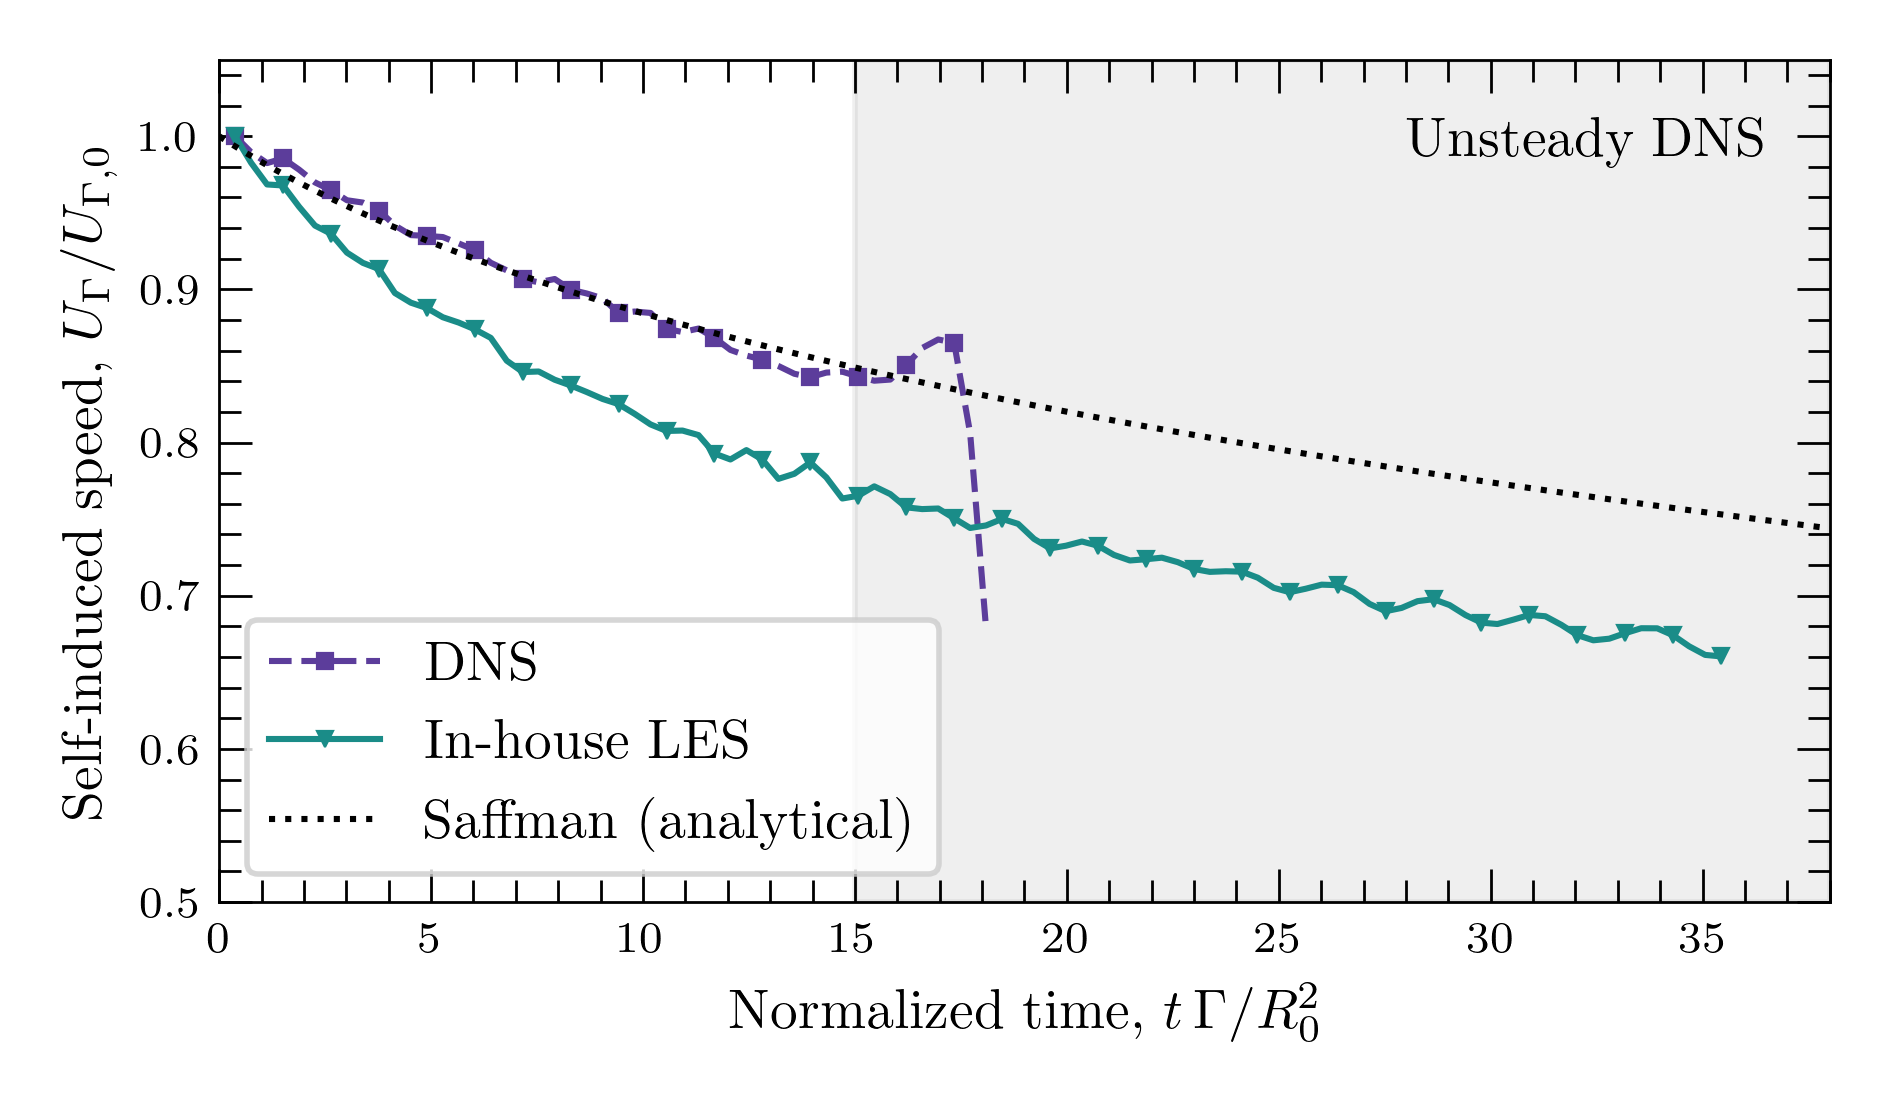
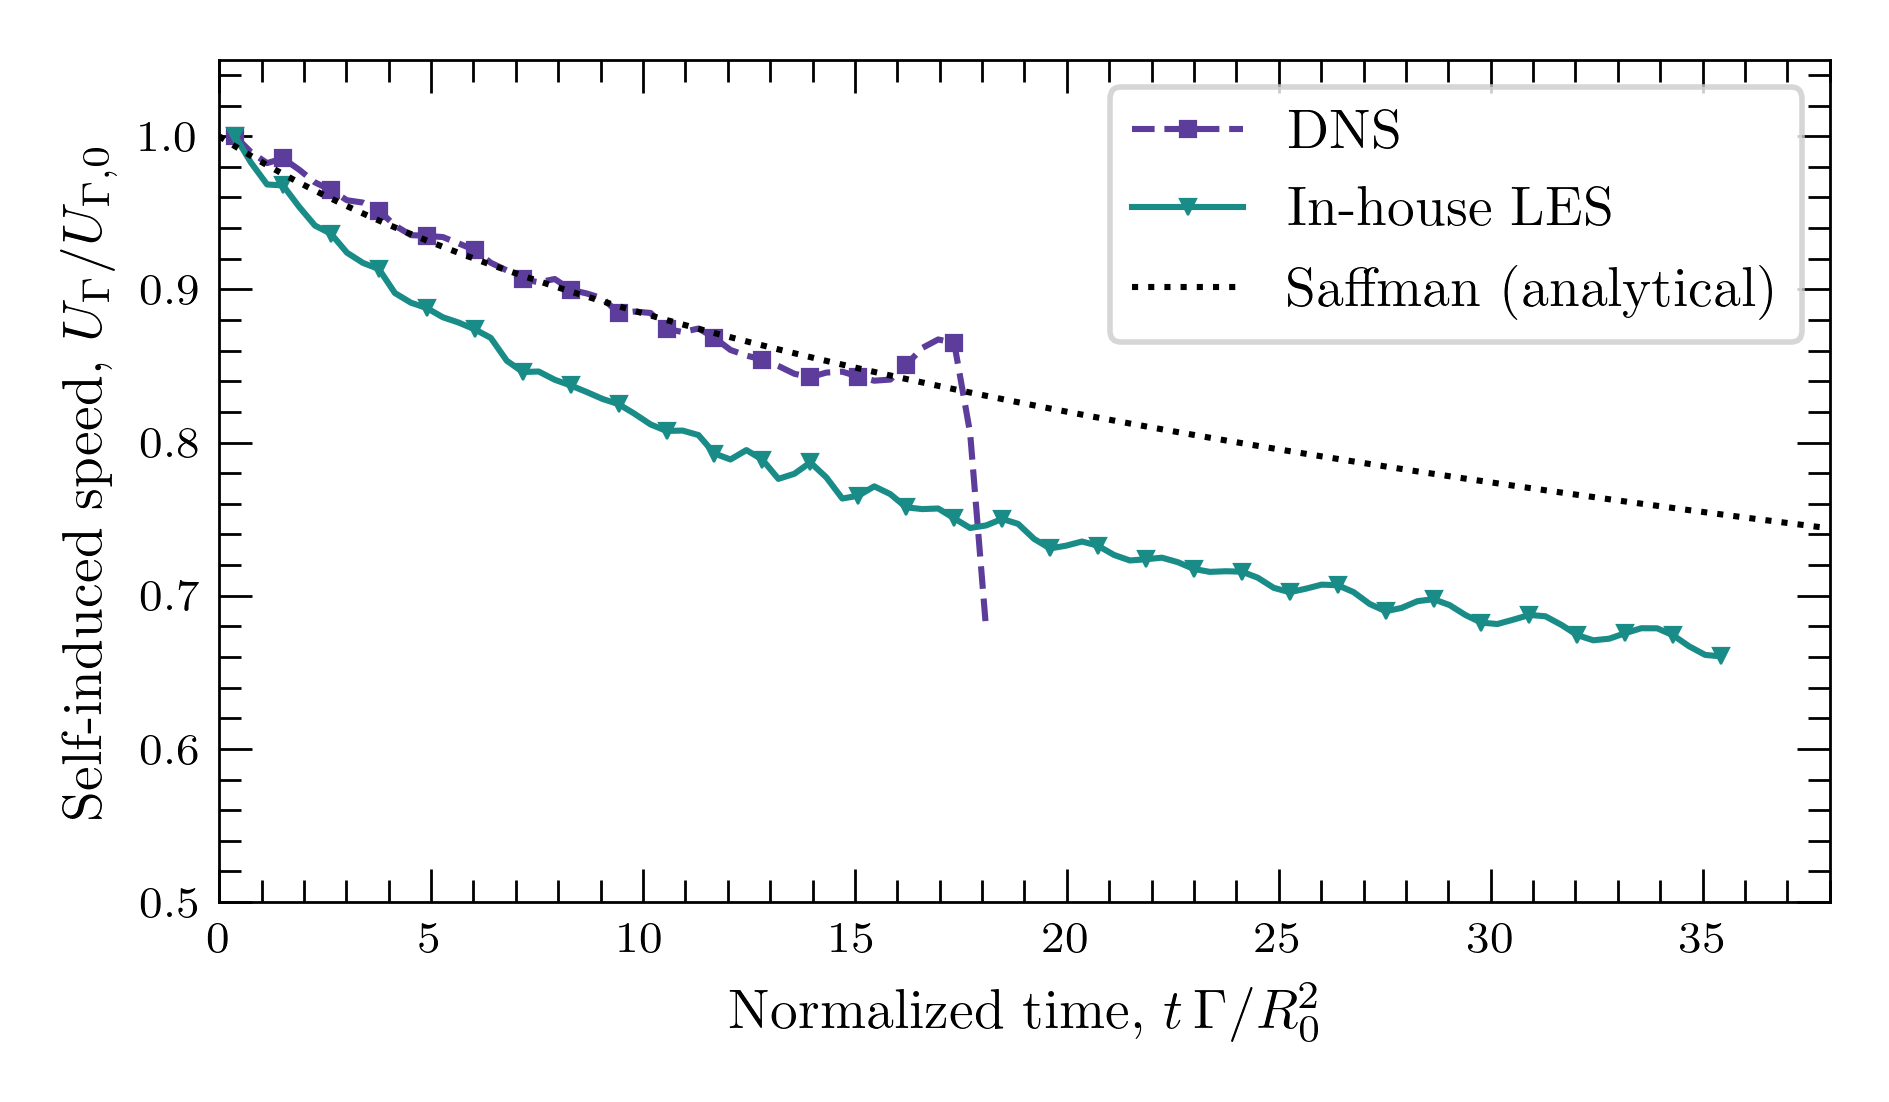
Sync

diff --git a/tutorials/VPM/rotorFlow/rotor_setup.py b/tutorials/VPM/rotorFlow/rotor_setup.py
@@ -41,6 +41,18 @@ def main():
     # farthest validation plane).  Near-wake convects at ~U(1-a) ≈ 4.7 m/s, so
     # ~9D = 108 m needs ~15-20 s of physical time (dt=0.005 → ~3500 steps).
     parser.add_argument("--num-steps", type=int, default=3500, help="Number of time steps")
+    # --- Stabiliser knobs (in-house LES + stretching stabiliser) -------------
+    parser.add_argument("--cs", type=float, default=0.3, help="Smagorinsky constant (in-house LES).")
+    parser.add_argument("--rvpm-g", type=float, default=0.2,
+                        help="rVPM g: 0.2 (default, partial) … 1/3 (full parallel-growth suppression).")
+    parser.add_argument("--rvpm-f", type=float, default=0.0, help="rVPM f parameter.")
+    parser.add_argument("--isr-mode", choices=["pedrizzetti", "blend"], default="pedrizzetti",
+                        help="ISR strength stabiliser: 'pedrizzetti' (|Γ|-preserving realign) or "
+                        "'blend' (dissipative ADM-residual filter — can DRAIN runaway |Γ|).")
+    parser.add_argument("--isr-rlx", type=float, default=0.95,
+                        help="Pedrizzetti relaxation coeff (lower = stronger).")
+    parser.add_argument("--isr-c", type=float, default=1.0, help="ISR strain-gate constant C (blend mode).")
+    parser.add_argument("--solution-dir", default="solution", help="Output directory.")
     args = parser.parse_args()
 
     # ================================================
@@ -122,7 +134,7 @@ def main():
     # ================================================
     # 5. Configure VPM Solver
     # ================================================
-    backup_dir = "solution"
+    backup_dir = args.solution_dir
 
     # Downstream YZ cross-plane samplers for wake / induction validation.
     # Planes at 3D, 6D, 9D downstream (D = 2R = 12 m → x = 36, 72, 108 m);
@@ -146,17 +158,18 @@ def main():
         time_step_size=time_step,
         vlm_solver=vlm,
         background_velocity=[freestream_velocity, 0, 0],
-        turbulence=TurbulenceConfig.les_smagorinsky(cs=0.3),
+        turbulence=TurbulenceConfig.les_smagorinsky(cs=args.cs),
         # Stretching STABILISER: the reformulated-VPM (Alvarez & Ning) scheme
-        # caps the parallel growth of |Γ| (conserving σ²|Γ|), which keeps the
-        # helical tip-vortex wake bounded over the full run.  Combined with the
-        # Pedrizzetti strength relaxation (|Γ|-preserving realignment) this
-        # holds the solution stable to the final step instead of blowing up.
-        stretching=StretchingConfig.rvpm(),
+        # caps the parallel growth of |Γ| (conserving σ²|Γ|).  Combined with the
+        # ISR strength relaxation it keeps the helical tip-vortex wake bounded.
+        # NB: pedrizzetti ISR is |Γ|-PRESERVING (realign only); 'blend' mode is
+        # dissipative (ADM-residual filter) and can DRAIN runaway tip-vortex |Γ|.
+        stretching=StretchingConfig.rvpm(f=args.rvpm_f, g=args.rvpm_g),
         isr_enabled=True,
-        isr_mode="pedrizzetti",
+        isr_mode=args.isr_mode,
         isr_gate="constant",
-        isr_rlx=0.95,
+        isr_rlx=args.isr_rlx,
+        isr_C=args.isr_c,
         isr_conserve=True,
         backup_file_name="rotor",
         backup_directory=backup_dir,

diff --git a/source/solvers/FVM/solve/simple_solver.py b/source/solvers/FVM/solve/simple_solver.py
@@ -572,37 +572,30 @@ def _correct_boundary_fluxes(
         phi[idx] += rho * geo_diff_b * p_prime[own]
 
 
-def _find_inlet_velocity(boundaries):
-    """Return the inlet fixed velocity from the boundary list, or None."""
-    for b in boundaries:
-        if b.get("name", "").lower() == "inlet" and "value_U" in b:
-            return np.array(b["value_U"])
-    return None
+def _apply_inlet_outlet_bc(U, phi, boundary, owners, n_elements, n_interior):
+    """inletOutlet velocity BC: zeroGradient on outflow, fixed value on inflow.
 
-
-def _handle_outlet_backflow(U, phi, boundary, owners, boundaries, idx, own, start, nf):
-    """Prevent reverse-flow inflow acceleration at outlet faces."""
-    try:
-        inflow_mask = phi[np.arange(start, start + nf)] < 0
-        if not np.any(inflow_mask):
-            return
-        inlet_val = _find_inlet_velocity(boundaries)
-        for i_local, inflow in enumerate(inflow_mask):
-            if inflow:
-                U[idx + i_local] = inlet_val if inlet_val is not None else U[own[i_local]]
-    except Exception:
-        pass
+    Per face: outgoing flux (φ ≥ 0) → extrapolate from the owner cell
+    (zeroGradient); incoming flux (φ < 0) → impose the boundary ``value_U`` (the
+    inletValue, default 0).  Physically bounds reverse flow at outlets, replacing
+    the old patch-name heuristic.
+    """
+    start = boundary["startFace"]
+    nf = boundary["nFaces"]
+    idx = n_elements + (start - n_interior)
+    own = owners[start : start + nf]
+    inlet_val = np.asarray(boundary.get("value_U", [0.0, 0.0, 0.0]), dtype=float)
+    outflow = phi[start : start + nf] >= 0.0
+    U[idx : idx + nf] = np.where(outflow[:, np.newaxis], U[own], inlet_val)
 
 
 def _apply_zero_gradient_bc(U, phi, boundary, owners, n_elements, n_interior, boundaries):
-    """Apply zeroGradient (and outlet backflow) velocity BC."""
+    """Apply zeroGradient velocity BC (extrapolate from the owner cell)."""
     start = boundary["startFace"]
     nf = boundary["nFaces"]
     idx = n_elements + (start - n_interior)
     own = owners[start : start + nf]
     U[idx : idx + nf] = U[own]
-    if "outlet" in boundary.get("name", "").lower():
-        _handle_outlet_backflow(U, phi, boundary, owners, boundaries, idx, own, start, nf)
 
 
 def _apply_fixed_value_bc(U, boundary, n_elements, n_interior):
@@ -635,6 +628,8 @@ def _update_velocity_bcs(U, phi, boundaries, owners, geo_data, n_elements, n_int
         bc_type_u = boundary.get("bc_type_U") or boundary.get("bc_type")
         if bc_type_u == "zeroGradient":
             _apply_zero_gradient_bc(U, phi, boundary, owners, n_elements, n_interior, boundaries)
+        elif bc_type_u == "inletOutlet":
+            _apply_inlet_outlet_bc(U, phi, boundary, owners, n_elements, n_interior)
         elif bc_type_u in ("fixedValue", "noSlip"):
             _apply_fixed_value_bc(U, boundary, n_elements, n_interior)
         elif bc_type_u in ("empty", "slip", "symmetry"):

diff --git a/tests/fvm/test_continuity.py b/tests/fvm/test_continuity.py
@@ -1,0 +1,50 @@
+"""Continuity (incompressibility) diagnostic checks.
+
+``compute_continuity_error`` returns the per-cell net face flux ∮U·dS.  On a
+divergence-free field it must be ~0; on a known-divergence field it must equal
+∫∇·U dV exactly (the discrete divergence of a linear field via face fluxes is
+exact).
+"""
+
+import numpy as np
+
+from source.solvers.FVM.assemble.convection import compute_mass_flow_rate
+from source.solvers.FVM.fields.diagnostics import compute_continuity_error
+from source.solvers.FVM.mesh.geometry import compute_mesh_geometry
+
+from ._structured_mesh import structured_box
+
+
+def _field(mesh, geo, fn):
+    n_elem = mesh["n_elements"]
+    n_int = mesh["n_interior_faces"]
+    cc, fc = geo["element_centroids"], geo["face_centroids"]
+    U = np.zeros((n_elem + mesh["n_faces"] - n_int, 3))
+    U[:n_elem] = fn(cc[:, 0], cc[:, 1], cc[:, 2])
+    for b in mesh["boundary"]:
+        for j in range(b["nFaces"]):
+            fi = b["startFace"] + j
+            U[n_elem + (fi - n_int)] = fn(
+                np.array([fc[fi, 0]]), np.array([fc[fi, 1]]), np.array([fc[fi, 2]])
+            ).ravel()
+    return U
+
+
+def test_uniform_flow_is_divergence_free():
+    mesh = structured_box(8, 8, 8)
+    geo = compute_mesh_geometry(mesh)
+    U = _field(mesh, geo, lambda x, y, z: np.column_stack([np.ones_like(x), 0.3 * np.ones_like(x), -0.5 * np.ones_like(x)]))
+    phi = compute_mass_flow_rate(U, mesh, geo)
+    div = compute_continuity_error(phi, mesh, geo)
+    assert np.max(np.abs(div)) < 1e-12, f"uniform flow not divergence-free: {np.max(np.abs(div)):.2e}"
+
+
+def test_linear_field_recovers_known_divergence():
+    """U = (x, 2y, 0) ⇒ ∇·U = 3; net flux per cell must equal 3·V."""
+    mesh = structured_box(8, 8, 8)
+    geo = compute_mesh_geometry(mesh)
+    U = _field(mesh, geo, lambda x, y, z: np.column_stack([x, 2.0 * y, np.zeros_like(x)]))
+    phi = compute_mass_flow_rate(U, mesh, geo)
+    div = compute_continuity_error(phi, mesh, geo)
+    local_div = div / geo["element_volumes"]
+    assert np.allclose(local_div, 3.0, atol=1e-10), f"max dev: {np.max(np.abs(local_div - 3.0)):.2e}"

diff --git a/source/solvers/FVM/solve/pimple_solver.py b/source/solvers/FVM/solve/pimple_solver.py
@@ -149,8 +149,13 @@ class PIMPLESolver(simple_solver.SIMPLESolver):
                 )
 
                 # Velocity clipping to prevent divergence in transient steps
-                max_vel = float(self.params.get("max_velocity_clip", 50.0))
-                U_iter[:n_elem] = np.clip(U_iter[:n_elem], -max_vel, max_vel)
+                # Optional hard velocity cap.  Disabled by default: clipping
+                # silently masks divergence, which the continuity diagnostic and
+                # the finite-value guard now surface instead.  Set
+                # solver.max_velocity_clip to re-enable as a last resort.
+                cap = self.params.get("max_velocity_clip", None)
+                if cap is not None:
+                    np.clip(U_iter[:n_elem], -float(cap), float(cap), out=U_iter[:n_elem])
 
                 logging.Timer.log("    Velocity Correction")
 
@@ -182,8 +187,13 @@ class PIMPLESolver(simple_solver.SIMPLESolver):
                     self.mesh_data, self.geo_data, self.boundaries,
                     rho=rho, alpha_u=alpha_u,
                 )
-                max_vel = float(self.params.get("max_velocity_clip", 50.0))
-                U_iter[:n_elem] = np.clip(U_iter[:n_elem], -max_vel, max_vel)
+                # Optional hard velocity cap.  Disabled by default: clipping
+                # silently masks divergence, which the continuity diagnostic and
+                # the finite-value guard now surface instead.  Set
+                # solver.max_velocity_clip to re-enable as a last resort.
+                cap = self.params.get("max_velocity_clip", None)
+                if cap is not None:
+                    np.clip(U_iter[:n_elem], -float(cap), float(cap), out=U_iter[:n_elem])
                 p[:n_elem] += alpha_p * p_prime
                 simple_solver.update_scalar_boundaries(p, self.mesh_data, self.boundaries, field_name="p")
 

diff --git a/tests/fvm/test_inlet_outlet_bc.py b/tests/fvm/test_inlet_outlet_bc.py
@@ -1,0 +1,44 @@
+"""inletOutlet velocity BC: zeroGradient on outflow, fixed value on inflow.
+
+Replaces the old patch-name backflow heuristic.  This checks the per-face
+switching directly: ghost cells of outgoing faces copy the owner; ghost cells of
+incoming (reverse-flow) faces take the boundary ``value_U`` (inletValue).
+"""
+
+import numpy as np
+
+from source.solvers.FVM.mesh.geometry import compute_mesh_geometry
+from source.solvers.FVM.solve.simple_solver import _update_velocity_bcs
+
+from ._structured_mesh import structured_box
+
+
+def test_inlet_outlet_switches_on_flux_sign():
+    mesh = structured_box(4, 4, 1)
+    geo = compute_mesh_geometry(mesh)
+    n_elem = mesh["n_elements"]
+    n_int = mesh["n_interior_faces"]
+    owners = mesh["owners"]
+
+    patch = next(b for b in mesh["boundary"] if b["name"] == "xmax")
+    patch["bc_type_U"] = "inletOutlet"
+    patch["value_U"] = [5.0, 0.0, 0.0]
+    start, nf = patch["startFace"], patch["nFaces"]
+
+    n_bnd = mesh["n_faces"] - n_int
+    U = np.zeros((n_elem + n_bnd, 3))
+    own = owners[start : start + nf]
+    U[own] = [2.0, 1.0, 0.0]  # owner-cell velocity
+
+    # Alternate outflow / inflow across the patch faces.
+    phi = np.zeros(mesh["n_faces"])
+    phi[start : start + nf] = [1.0 if j % 2 == 0 else -1.0 for j in range(nf)]
+
+    _update_velocity_bcs(U, phi, [patch], owners, geo, n_elem, n_int)
+
+    for j in range(nf):
+        ghost = n_elem + (start + j - n_int)
+        if j % 2 == 0:  # outflow → zeroGradient (owner value)
+            assert np.allclose(U[ghost], [2.0, 1.0, 0.0]), f"outflow face {j} not extrapolated"
+        else:  # inflow → inletValue
+            assert np.allclose(U[ghost], [5.0, 0.0, 0.0]), f"inflow face {j} not clamped to inletValue"

diff --git a/tutorials/VPM/lambOseenVortex/assets/plot_dipole_comparison.py b/tutorials/VPM/lambOseenVortex/assets/plot_dipole_comparison.py
@@ -45,15 +45,22 @@ def h5_files(solution_dir: Path, prefix: str, scheme: str) -> list[Path]:
 
 
 def read_h5(path: Path):
-    with h5py.File(path, "r") as f:
-        t = float(f["solver"].attrs["flow_time"])
-        n = int(f["solver"].attrs["number_of_particles"])
-        if n == 0:
-            return t, None, None, None
-        pos = f["particles"]["position"][:n].astype(np.float64)
-        circ = f["particles"]["circulation"][:n].astype(np.float64)
-        radius = f["particles"]["radius"][:n].astype(np.float64)
-    return t, pos, circ[:, 2], radius
+    # Guard against truncated/corrupt backups (e.g. from an interrupted run):
+    # a bad file raises OSError ("file signature not found") — skip it rather
+    # than killing the whole figure.
+    try:
+        with h5py.File(path, "r") as f:
+            t = float(f["solver"].attrs["flow_time"])
+            n = int(f["solver"].attrs["number_of_particles"])
+            if n == 0:
+                return t, None, None, None
+            pos = f["particles"]["position"][:n].astype(np.float64)
+            circ = f["particles"]["circulation"][:n].astype(np.float64)
+            radius = f["particles"]["radius"][:n].astype(np.float64)
+        return t, pos, circ[:, 2], radius
+    except (OSError, KeyError) as exc:
+        print(f"  [warn] skipping unreadable backup {path.name}: {exc}")
+        return None, None, None, None
 
 
 def core_properties(pos: np.ndarray, gz: np.ndarray, sign: float = 1.0):

diff --git a/source/solvers/FVM/assemble/diffusion.py b/source/solvers/FVM/assemble/diffusion.py
@@ -52,18 +52,22 @@ def assemble_diffusion_term_interior(phi, grad_phi, gamma, mesh_data, geo_data):
     mag_cf = np.linalg.norm(cf_vector, axis=1)
     e = cf_vector / mag_cf[:, np.newaxis]
 
-    # |Sf|
-    mag_sf = np.linalg.norm(sf, axis=1)
-
-    # Orthogonal component: Ef = |Sf| * e
-    ef = mag_sf[:, np.newaxis] * e
+    # Over-relaxed orthogonal decomposition  Sf = Ef + Tf,  Ef ∥ e,
+    # |Ef| = (Sf·Sf)/(Sf·e).  This keeps the implicit Laplacian aligned with the
+    # owner→neighbour line (best conditioning / accuracy on non-orthogonal
+    # meshes) and pushes the residual into the explicit Tf correction.  On an
+    # orthogonal mesh Sf·e = |Sf| ⇒ Ef = Sf, Tf = 0, recovering the exact result.
+    sf_dot_e = np.sum(sf * e, axis=1)
+    sf_dot_e = np.where(np.abs(sf_dot_e) < 1e-30, 1e-30, sf_dot_e)
+    mag_sf2 = np.sum(sf * sf, axis=1)
+    ef_mag = mag_sf2 / sf_dot_e  # = |Ef|
 
     # Non-orthogonal component: Tf = Sf - Ef
+    ef = ef_mag[:, np.newaxis] * e
     tf = sf - ef
 
     # Geometric diffusion: |Ef| / |CF|
-    mag_ef = np.linalg.norm(ef, axis=1)
-    geo_diff = mag_ef / mag_cf
+    geo_diff = ef_mag / mag_cf
 
     # Interpolate gamma to faces (linear interpolation using geometric weights)
     weights = geo_data["face_weights"][:n_interior_faces]

diff --git a/tutorials/VPM/vortexRing/assets/_common.py b/tutorials/VPM/vortexRing/assets/_common.py
@@ -54,9 +54,6 @@ VARIANT_STYLE: dict[str, dict[str, str]] = {
     "LES_mixed": {"color": "#2B7A4E", "marker": "p"},
 }
 
-# Normalized time above which DNS solutions become unreliable (blow-up onset).
-T_UNSTABLE = 15.0
-
 # ── Theme ─────────────────────────────────────────────────────────────────────
 
 
@@ -272,27 +269,6 @@ def save_fig(fig, path, dpi: int = 400) -> None:
     fig.savefig(path, dpi=dpi)
     print(f"Generated: {path}")
     plt.close(fig)
-
-
-def add_instability_region(ax: object) -> None:
-    """Add gray background shading and label where DNS becomes unsteady."""
-    from matplotlib import pyplot as plt
-
-    x0, x1 = ax.get_xlim()
-    x_end = max(x1, T_UNSTABLE + 10)
-    ax.set_xlim(x0, min(x_end, 55))
-    ax.axvspan(T_UNSTABLE, ax.get_xlim()[1], color="gray", alpha=0.12, zorder=0)
-    ax.text(
-        28,
-        0.93,
-        "Unsteady DNS",
-        transform=ax.get_xaxis_transform(),
-        fontsize=10,
-        ha="left",
-        va="top",
-        color="black",
-        zorder=20,
-    )
 
 
 def saffman_speed(t_arr: np.ndarray, k_nu: float = 4.0) -> np.ndarray:

diff --git a/source/solvers/FVM/core/solver.py b/source/solvers/FVM/core/solver.py
@@ -61,7 +61,7 @@ def _enforce_u_boundary_constraints(
             U[start:end] = 0.0
         elif bc_type in ["fixedValue", "freestream"] and "value_U" in boundary:
             U[start:end] = boundary["value_U"]
-        elif bc_type == "zeroGradient":
+        elif bc_type in ("zeroGradient", "inletOutlet"):
             owners_b = mesh_data["owners"][
                 boundary["startFace"] : boundary["startFace"] + boundary["nFaces"]
             ]
@@ -363,6 +363,14 @@ class Solver:
             f"  continuity: max|div U| = {self.continuity_max:.3e} 1/s, "
             f"sum|imbalance| = {self.continuity_sum:.3e} m3/s"
         )
+
+        # Surface divergence loudly instead of hiding it behind a velocity clip.
+        if not np.all(np.isfinite(self.U[: self.mesh_data["n_elements"]])):
+            print(
+                "  WARNING: non-finite velocity detected — the solution is "
+                "diverging (try a smaller dt, more correctors, or a bounded "
+                "convection scheme)."
+            )
 
         # Compute CFL after step (for next step's dt adjustment)
         if cfg_time.adjust_timestep:

diff --git a/source/solvers/FVM/config/types.py b/source/solvers/FVM/config/types.py
@@ -133,7 +133,9 @@ class BoundaryConfig:
 
     @staticmethod
     def outlet(name: str, p: float = 0.0) -> "BoundaryConfig":
-        return BoundaryConfig(name=name, type_U="zeroGradient", type_p="fixedValue", value_p=p)
+        """Outlet: fixed pressure + ``inletOutlet`` velocity (zeroGradient on
+        outflow, zero inflow on reverse flow — bounded, no patch-name heuristic)."""
+        return BoundaryConfig(name=name, type_U="inletOutlet", type_p="fixedValue", value_p=p)
 
     @staticmethod
     def freestream(name: str, velocity: list[float]) -> "BoundaryConfig":

diff --git a/source/solvers/FVM/assemble/momentum.py b/source/solvers/FVM/assemble/momentum.py
@@ -78,7 +78,7 @@ def _apply_ustar_bc(U_star, U, boundary, mesh_data, geo_data, n_elements):
     b_elem_indices = np.arange(n_elements + b_elem_start, n_elements + b_elem_start + n_faces)
     bc_type = boundary.get("bc_type_U")
 
-    if bc_type == "zeroGradient":
+    if bc_type in ("zeroGradient", "inletOutlet"):
         owners_b = mesh_data["owners"][start_face : start_face + n_faces]
         U_star[b_elem_indices] = U_star[owners_b]
     elif bc_type in ("fixedValue", "noSlip"):
